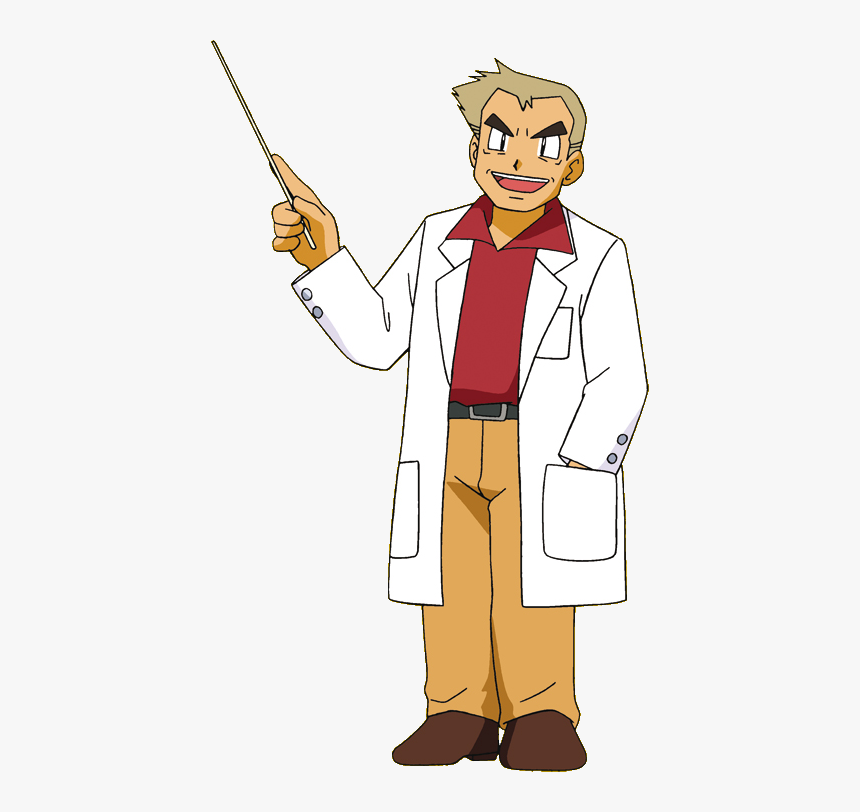
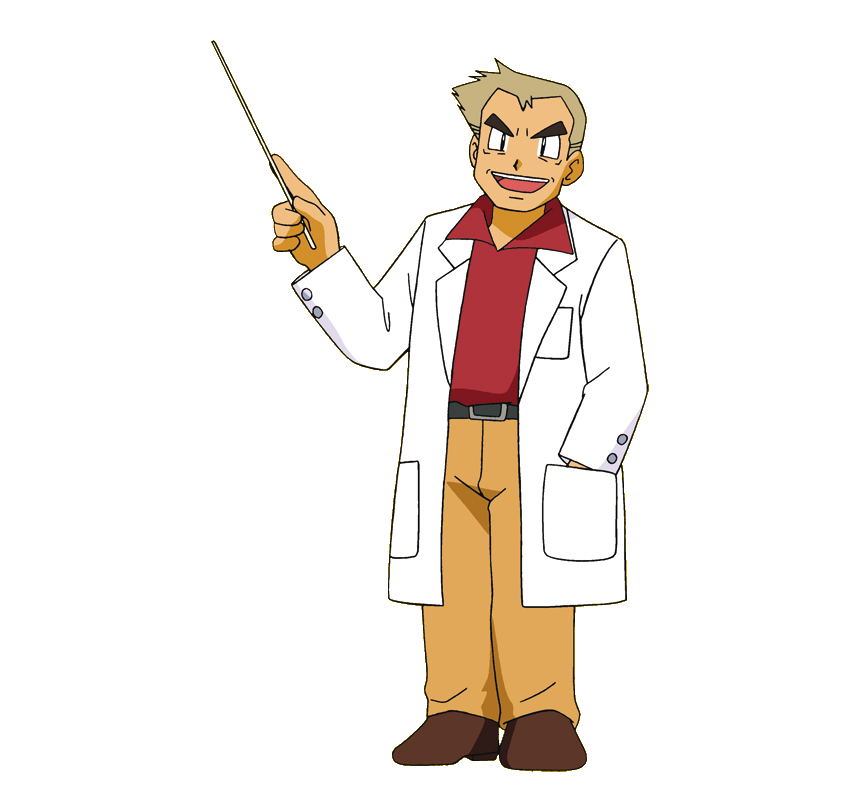
More images

diff --git a/pages/index.js b/pages/index.js
@@ -4,8 +4,8 @@ import React, { useEffect, useState } from 'react';
 export default function Home() {
   const [screens, setScreens] = useState([
     {
-      text: 'Hello Bill!  Would you like to help me with some research?',
-      img: 'images/prof-oak-3.png',
+      text: 'Hello Bill!  I hear its your birthday!  Would you like to help me with some research?',
+      img: 'images/prof-oak-2.png',
       backButton: '<<',
       nextButton: 'Yes!'
     },
@@ -41,7 +41,7 @@ export default function Home() {
     },
     {
       text: 'I want to study a few pokemon of different types.  This will help us become better pokemon trainers.  Will you help me?',
-      img: 'images/prof-oak-3.png',
+      img: 'images/prof-oak-2.png',
       backButton: '<<',
       nextButton: 'Yes!'
     },
@@ -68,21 +68,67 @@ export default function Home() {
       img: 'images/grass.png',
       backButton: '<<',
       nextButton: 'Okay!'
+    },
+    {
+      text: 'You caught a Bulbasaur?',
+      img: 'images/prof-oak-2.png',
+      backButton: '<<',
+      nextButton: 'Yes!'
+    },
+    {
+      text: 'Great!',
+      img: 'images/prof-oak.png',
+      backButton: '<<',
+      nextButton: 'Next'
+    },
+    {
+      text: 'Next up is Squirtle!',
+      img: 'images/squirtle.png',
+      backButton: '<<',
+      nextButton: 'Okay!'
+    },
+    {
+      text: 'Squirtle is a water type pokemon, so he loves being by water.',
+      img: 'images/water-landscape.png',
+      backButton: '<<',
+      nextButton: 'Next'
+    },
+    {
+      text: 'My student Ash found some Squirtle near this location.  Can you check it out?',
+      img: 'images/water-landscape.png',
+      backButton: '<<',
+      nextButton: 'Yes!'
+    },
+    {
+      text: 'You caught a Squirtle?',
+      img: 'images/prof-oak-2.png',
+      backButton: '<<',
+      nextButton: 'Yes!'
+    },
+    {
+      text: 'Great!',
+      img: 'images/prof-oak.png',
+      backButton: '<<',
+      nextButton: 'Next'
+    },
+    {
+      text: 'Next up is Charmander!',
+      img: 'images/charmander.png',
+      backButton: '<<',
+      nextButton: 'Okay!'
     }
-
-
   ]);
 
-  const [currentScreen, setCurrentScreen] = useState(0);
+  const [currentScreen, setCurrentScreen] = useState(16);
   const [showNext, setShowNext] = useState(true);
-  const [onFirstScreen, setOnFirstScreen] = useState(true);
+  const [onFirstScreen, setOnFirstScreen] = useState(false);
 
   function handleNextClick() {
     setShowNext(false);
 
     setTimeout(() => {
       setShowNext(true);
-    }, 3000);
+    }, 1000);
 
     if (currentScreen < screens.length - 1) {
       setCurrentScreen(currentScreen + 1);
@@ -270,7 +316,7 @@ export default function Home() {
           flex-direction: column;
           justify-content: center;
           align-items: center;
-          background-color: rgb(247,247,247);
+          
         }
 
         h1 {
